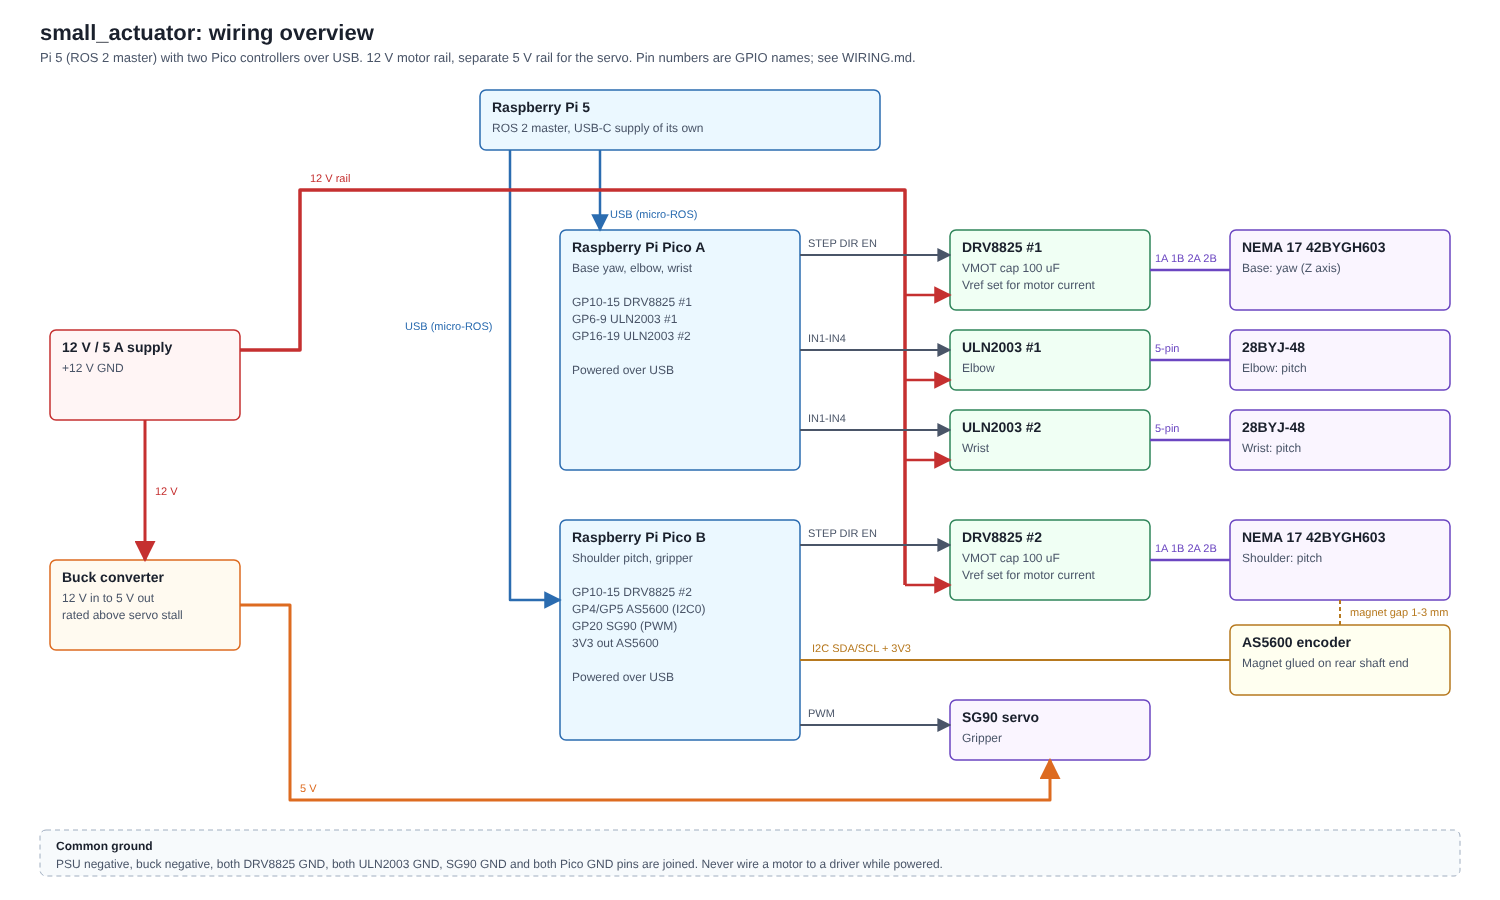
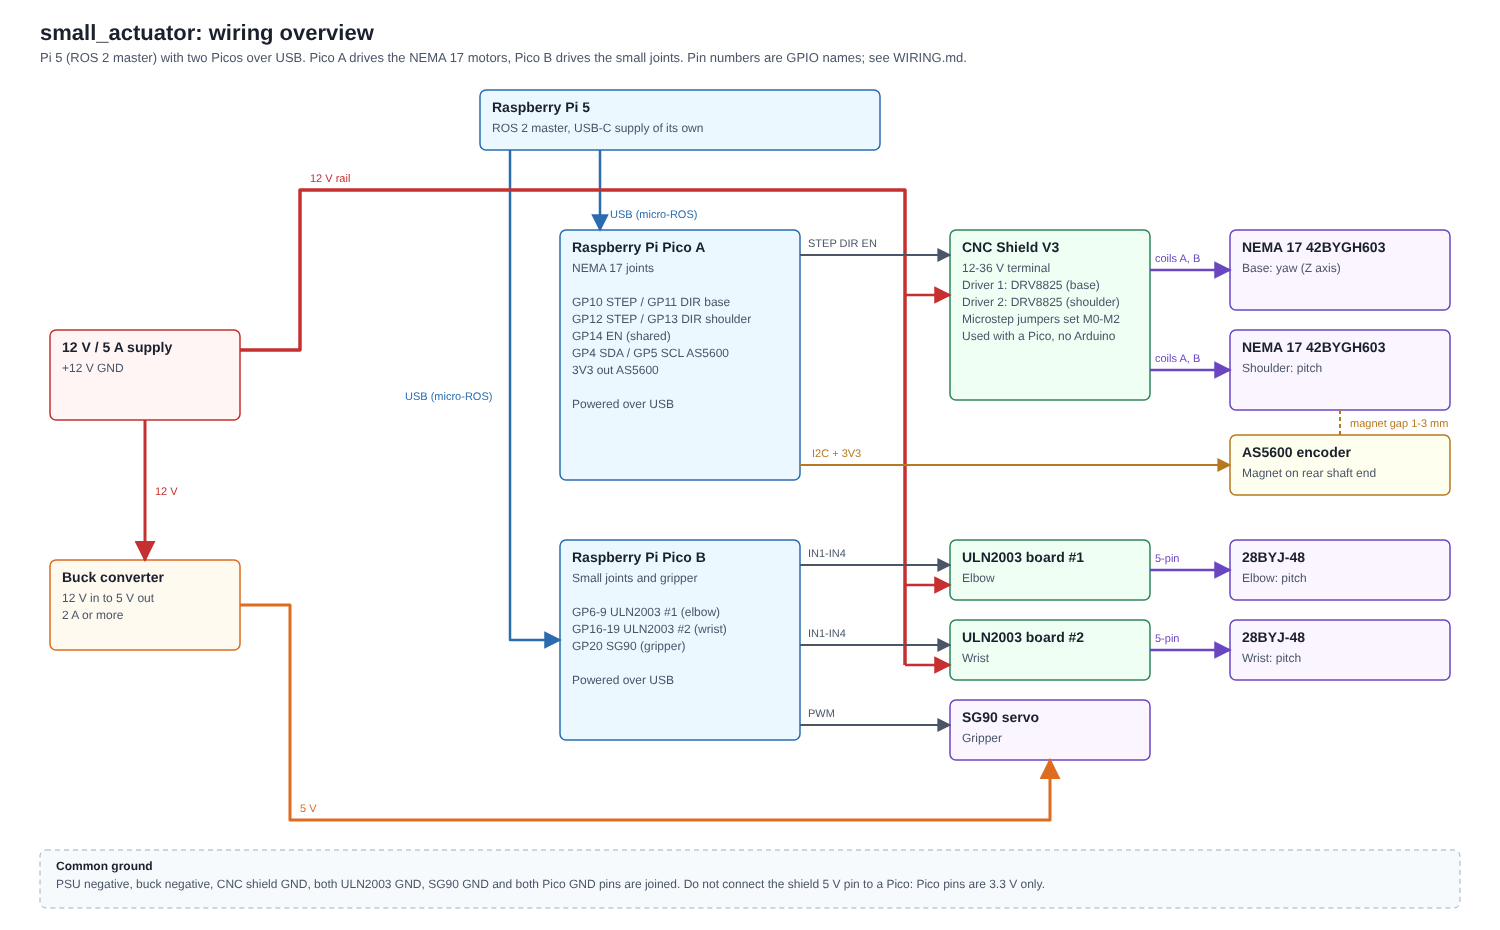
Rework wiring for CNC shield and split Picos by joint type
Claude-Session: https://claude.ai/code/session_01LXUMxAwN8X6Q7JEHc2q8N4

diff --git a/hardware/WIRING.md b/hardware/WIRING.md
@@ -7,51 +7,53 @@
 | Controller | Drives | Notes |
 |---|---|---|
 | Raspberry Pi 5 | ROS 2 master | Own USB-C supply. Connects to each Pico over USB (micro-ROS). |
-| Pico A | Base yaw (NEMA 17), elbow and wrist (28BYJ-48) | Powered over USB |
-| Pico B | Shoulder pitch (NEMA 17), gripper (SG90), AS5600 encoder | Powered over USB |
+| Pico A | Base yaw and shoulder pitch (NEMA 17), AS5600 encoder | Powered over USB. Drives the CNC shield. |
+| Pico B | Elbow and wrist (28BYJ-48), gripper (SG90) | Powered over USB. Drives two ULN2003 boards. |
 
-Both Picos use the same pin map for the DRV8825 (GP10 to GP15), so the same firmware can run on either.
-
-## Pico A pinout
+## Pico A pinout (NEMA 17 joints)
 
 | Function | GPIO | Physical pin | Connects to |
 |---|---|---|---|
-| STEP | GP10 | 14 | DRV8825 #1 STEP |
-| DIR | GP11 | 15 | DRV8825 #1 DIR |
-| ENABLE | GP12 | 16 | DRV8825 #1 ENABLE (active low) |
-| M0 | GP13 | 17 | DRV8825 #1 M0 |
-| M1 | GP14 | 19 | DRV8825 #1 M1 |
-| M2 | GP15 | 20 | DRV8825 #1 M2 |
-| IN1 to IN4 | GP6, GP7, GP8, GP9 | 9, 10, 11, 12 | ULN2003 #1 (elbow) |
-| IN1 to IN4 | GP16, GP17, GP18, GP19 | 21, 22, 24, 25 | ULN2003 #2 (wrist) |
-| GND | | 38 | Common ground |
-
-## Pico B pinout
-
-| Function | GPIO | Physical pin | Connects to |
-|---|---|---|---|
-| STEP | GP10 | 14 | DRV8825 #2 STEP |
-| DIR | GP11 | 15 | DRV8825 #2 DIR |
-| ENABLE | GP12 | 16 | DRV8825 #2 ENABLE (active low) |
-| M0, M1, M2 | GP13, GP14, GP15 | 17, 19, 20 | DRV8825 #2 M0, M1, M2 |
+| STEP, base | GP10 | 14 | Driver 1 STEP on the CNC shield |
+| DIR, base | GP11 | 15 | Driver 1 DIR |
+| STEP, shoulder | GP12 | 16 | Driver 2 STEP |
+| DIR, shoulder | GP13 | 17 | Driver 2 DIR |
+| ENABLE | GP14 | 19 | Shield EN (shared by all drivers, active low) |
 | I2C0 SDA | GP4 | 6 | AS5600 SDA |
 | I2C0 SCL | GP5 | 7 | AS5600 SCL |
 | 3V3 (OUT) | | 36 | AS5600 VCC |
+| Reserved | GP15, GP16, GP17 | 20, 21, 22 | Future limit switches |
+| GND | | 38 | Common ground |
+
+## Pico B pinout (small joints)
+
+| Function | GPIO | Physical pin | Connects to |
+|---|---|---|---|
+| IN1 to IN4 | GP6, GP7, GP8, GP9 | 9, 10, 11, 12 | ULN2003 board #1 (elbow) |
+| IN1 to IN4 | GP16, GP17, GP18, GP19 | 21, 22, 24, 25 | ULN2003 board #2 (wrist) |
 | Servo PWM | GP20 | 26 | SG90 signal |
 | GND | | 38 | Common ground |
 
-## DRV8825 connections (per driver)
+## CNC Shield V3
 
-- **VMOT / GND:** 12 V and ground, with a 100 uF electrolytic capacitor across them, close to the driver.
-- **RESET and SLEEP:** join the two pins together and connect them to 3V3, or the driver stays off.
-- **ENABLE, STEP, DIR, M0 to M2:** to the Pico pins above. Logic is 3.3 V compatible.
-- **Motor coils:** 1A and 1B to one coil, 2A and 2B to the other. Find the coil pairs with a multimeter (low resistance between the two wires of one coil) before connecting.
-- **Current limit:** set the reference voltage before connecting the motor. The formula depends on the sense resistor of your module, so check it first.
+The shield is an Arduino Uno shield used here without an Arduino. It supplies the DRV8825 sockets, the motor power terminal and the microstep jumpers.
 
-## ULN2003 and 28BYJ-48
+- **Power:** the 12-36 V screw terminal takes the 12 V rail. Check the polarity marking on the board before connecting.
+- **Signals:** on the standard GRBL layout the signals come from the Uno pins X STEP D2, Y STEP D3, Z STEP D4, X DIR D5, Y DIR D6, Z DIR D7 and EN D8. Wire the Pico GPIOs to those same signals at the shield pins. Confirm each one against the silkscreen or with a multimeter before powering.
+- **Driver slots:** this plan uses slot X for the base and slot Y for the shoulder. Any two slots work as long as STEP and DIR follow the slot used.
+- **Microstepping:** set with jumpers under each driver (M0, M1, M2). For the DRV8825, no jumpers is full step and all three is 1/32. The Pico does not control these pins.
+- **Enable:** the shield has a single EN line shared by all drivers.
+- **Current limit:** three DRV8825 modules are fitted and two are used. Set the reference voltage of each used driver before connecting its motor. The formula depends on the sense resistor of your module, so check it first.
+- **3.3 V logic:** Pico outputs 3.3 V, which the DRV8825 accepts. Pico pins are not 5 V tolerant, so never connect the shield 5 V pin to a Pico and never feed a shield signal into a Pico input without checking its level.
+- **Capacitor:** make sure a bulk capacitor of about 100 uF is present across the motor supply. Add one if the shield has none.
+- **Motor coils:** each NEMA 17 has two coils. Find the pairs with a multimeter (low resistance between the two wires of one coil) before plugging the motor into the driver.
 
-- IN1 to IN4 to the four Pico pins listed above, in order.
-- Power the board from the 12 V rail only if the motor is the 12 V version. A 5 V motor needs 5 V.
+## ULN2003 boards and 28BYJ-48
+
+The boards are the 7-channel type (IN1 to IN7, labelled 5-12 V). Only IN1 to IN4 are used. The four LEDs show which coil is energised, which is useful for first tests.
+
+- IN1 to IN4 to the four Pico pins above, in order.
+- Power the board through its two power pins with the 12 V rail only if the motor is the 12 V version. A 5 V motor needs 5 V.
 - Drive with the half-step sequence for smoother motion.
 
 ## SG90 servo
@@ -61,23 +63,23 @@ Both Picos use the same pin map for the DRV8825 (GP10 to GP15), so the same firm
 
 ## AS5600 encoder (shoulder)
 
-- VCC to Pico B 3V3, GND to ground, SDA to GP4, SCL to GP5. Tie the DIR pin of the module to ground.
-- I2C address is fixed at 0x36. Each Pico has its own bus, so there is no address conflict.
+- VCC to Pico A 3V3, GND to ground, SDA to GP4, SCL to GP5. Tie the DIR pin of the module to ground.
+- I2C address is fixed at 0x36.
 - The magnet is a 6 x 2.5 mm diametrically magnetised disc, glued centred on the flat rear end of the motor shaft. A small printed jig helps centre it.
 - The sensor sits 1 to 3 mm from the magnet. Read the magnet status bits of the AS5600 to confirm the field strength is in range.
 - The encoder measures the motor shaft angle. If the shoulder is driven through the GT2 belt, the joint angle is the motor angle divided by the belt ratio.
 
 ## Power and ground
 
-- 12 V rail: PSU to both DRV8825 VMOT pins and the ULN2003 boards.
+- 12 V rail: PSU to the CNC shield terminal and the two ULN2003 boards (12 V motors only).
 - 5 V rail: buck converter to the SG90 only.
 - The Pi 5 uses its own USB-C supply and powers both Picos over USB.
-- Join all grounds: PSU negative, buck negative, both DRV8825 GND, both ULN2003 GND, SG90 and both Pico GND pins.
+- Join all grounds: PSU negative, buck negative, CNC shield GND, both ULN2003 GND, SG90 and both Pico GND pins.
 
 ## First power-up checklist
 
 1. Verify the 28BYJ-48 voltage version from the label.
-2. Set the DRV8825 current limit with the motor disconnected.
+2. Set the DRV8825 current limit with the motors disconnected.
 3. Power off, connect one motor, power on, and step it slowly in both directions.
 4. Repeat joint by joint before connecting everything.
 5. Add the encoder only after the shoulder motor runs open loop.

diff --git a/hardware/BOM.md b/hardware/BOM.md
@@ -10,9 +10,9 @@ Unit prices are per piece. **TBD** means the price or quantity is not yet known.
 | Actuation | NEMA 17 stepper motor | 42BYGH603 | 2 | 15.00 | 30.00 | Owned | Base yaw, shoulder pitch |
 | Actuation | Geared stepper motor | 28BYJ-48 | 2 | 5.00 | 10.00 | Owned | Elbow, wrist pitch |
 | Actuation | Micro servo | SG90 | 1 | TBD | TBD | Owned (verify) | Gripper |
-| Drivers | Stepper driver | DRV8825 | 2 | 2.00 | 4.00 | Owned | One per NEMA 17 |
-| Drivers | Stepper driver | ULN2003APG | 2 | 2.00 | 4.00 | Owned | One per 28BYJ-48 |
-| Drivers | Breakout / driver board | 12 V input | 1 | TBD | TBD | Owned | Carries 12 V to the motor drivers |
+| Drivers | Stepper driver | DRV8825 | 2 | 2.00 | 4.00 | Owned | One per NEMA 17; three fitted on the shield, two used |
+| Drivers | ULN2003 driver board | ULN2003APG, 7-channel, 5-12 V | 2 | 2.00 | 4.00 | Owned | One per 28BYJ-48; IN1 to IN4 used |
+| Drivers | CNC shield | Arduino CNC Shield V3, 12-36 V input | 1 | TBD | TBD | Owned | Holds the DRV8825 modules and carries 12 V to them; used with a Pico, not an Arduino |
 | Feedback | Magnetic encoder | AS5600 module (proposed) | 1 | TBD | TBD | To buy | First closed-loop joint, for PID; I2C, 12-bit |
 | Feedback | Diametric magnet | 6 x 2.5 mm (proposed) | 1 | TBD | TBD | To buy | Mounted on the shaft of the encoded joint |
 | Transmission | GT2 timing belt | 202 mm | 1 | 2.00 | 2.00 | Owned |  |
